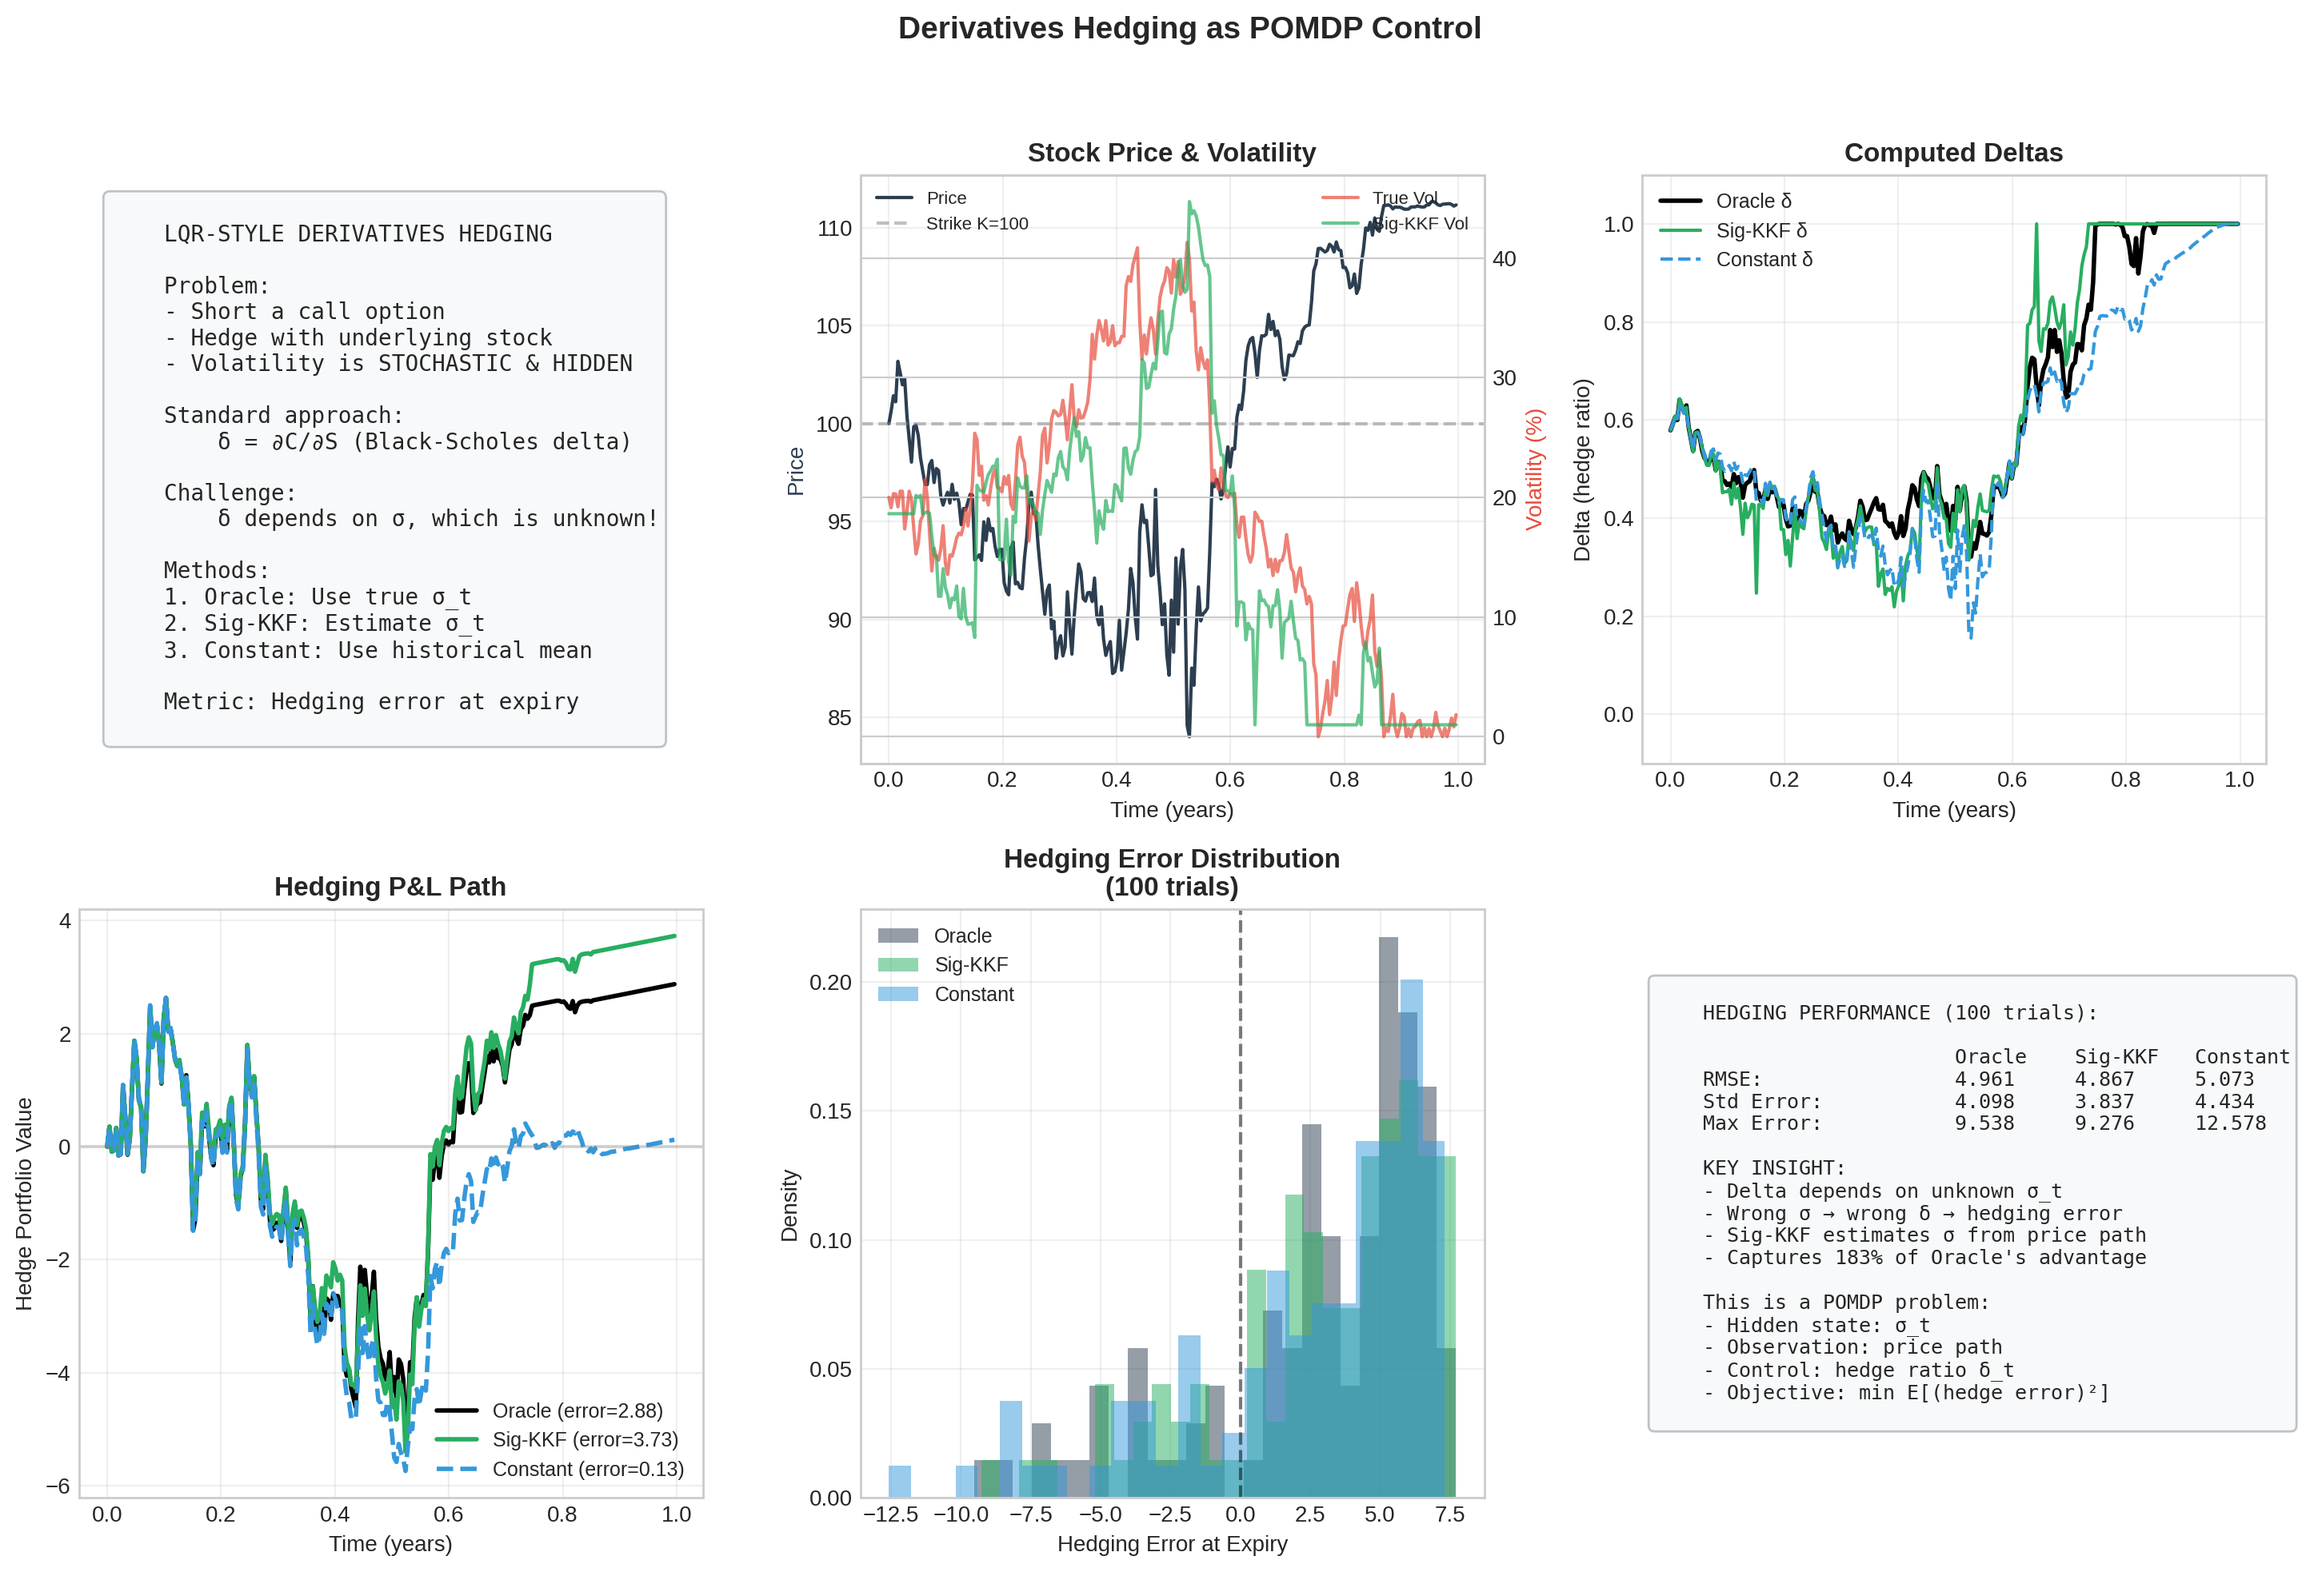
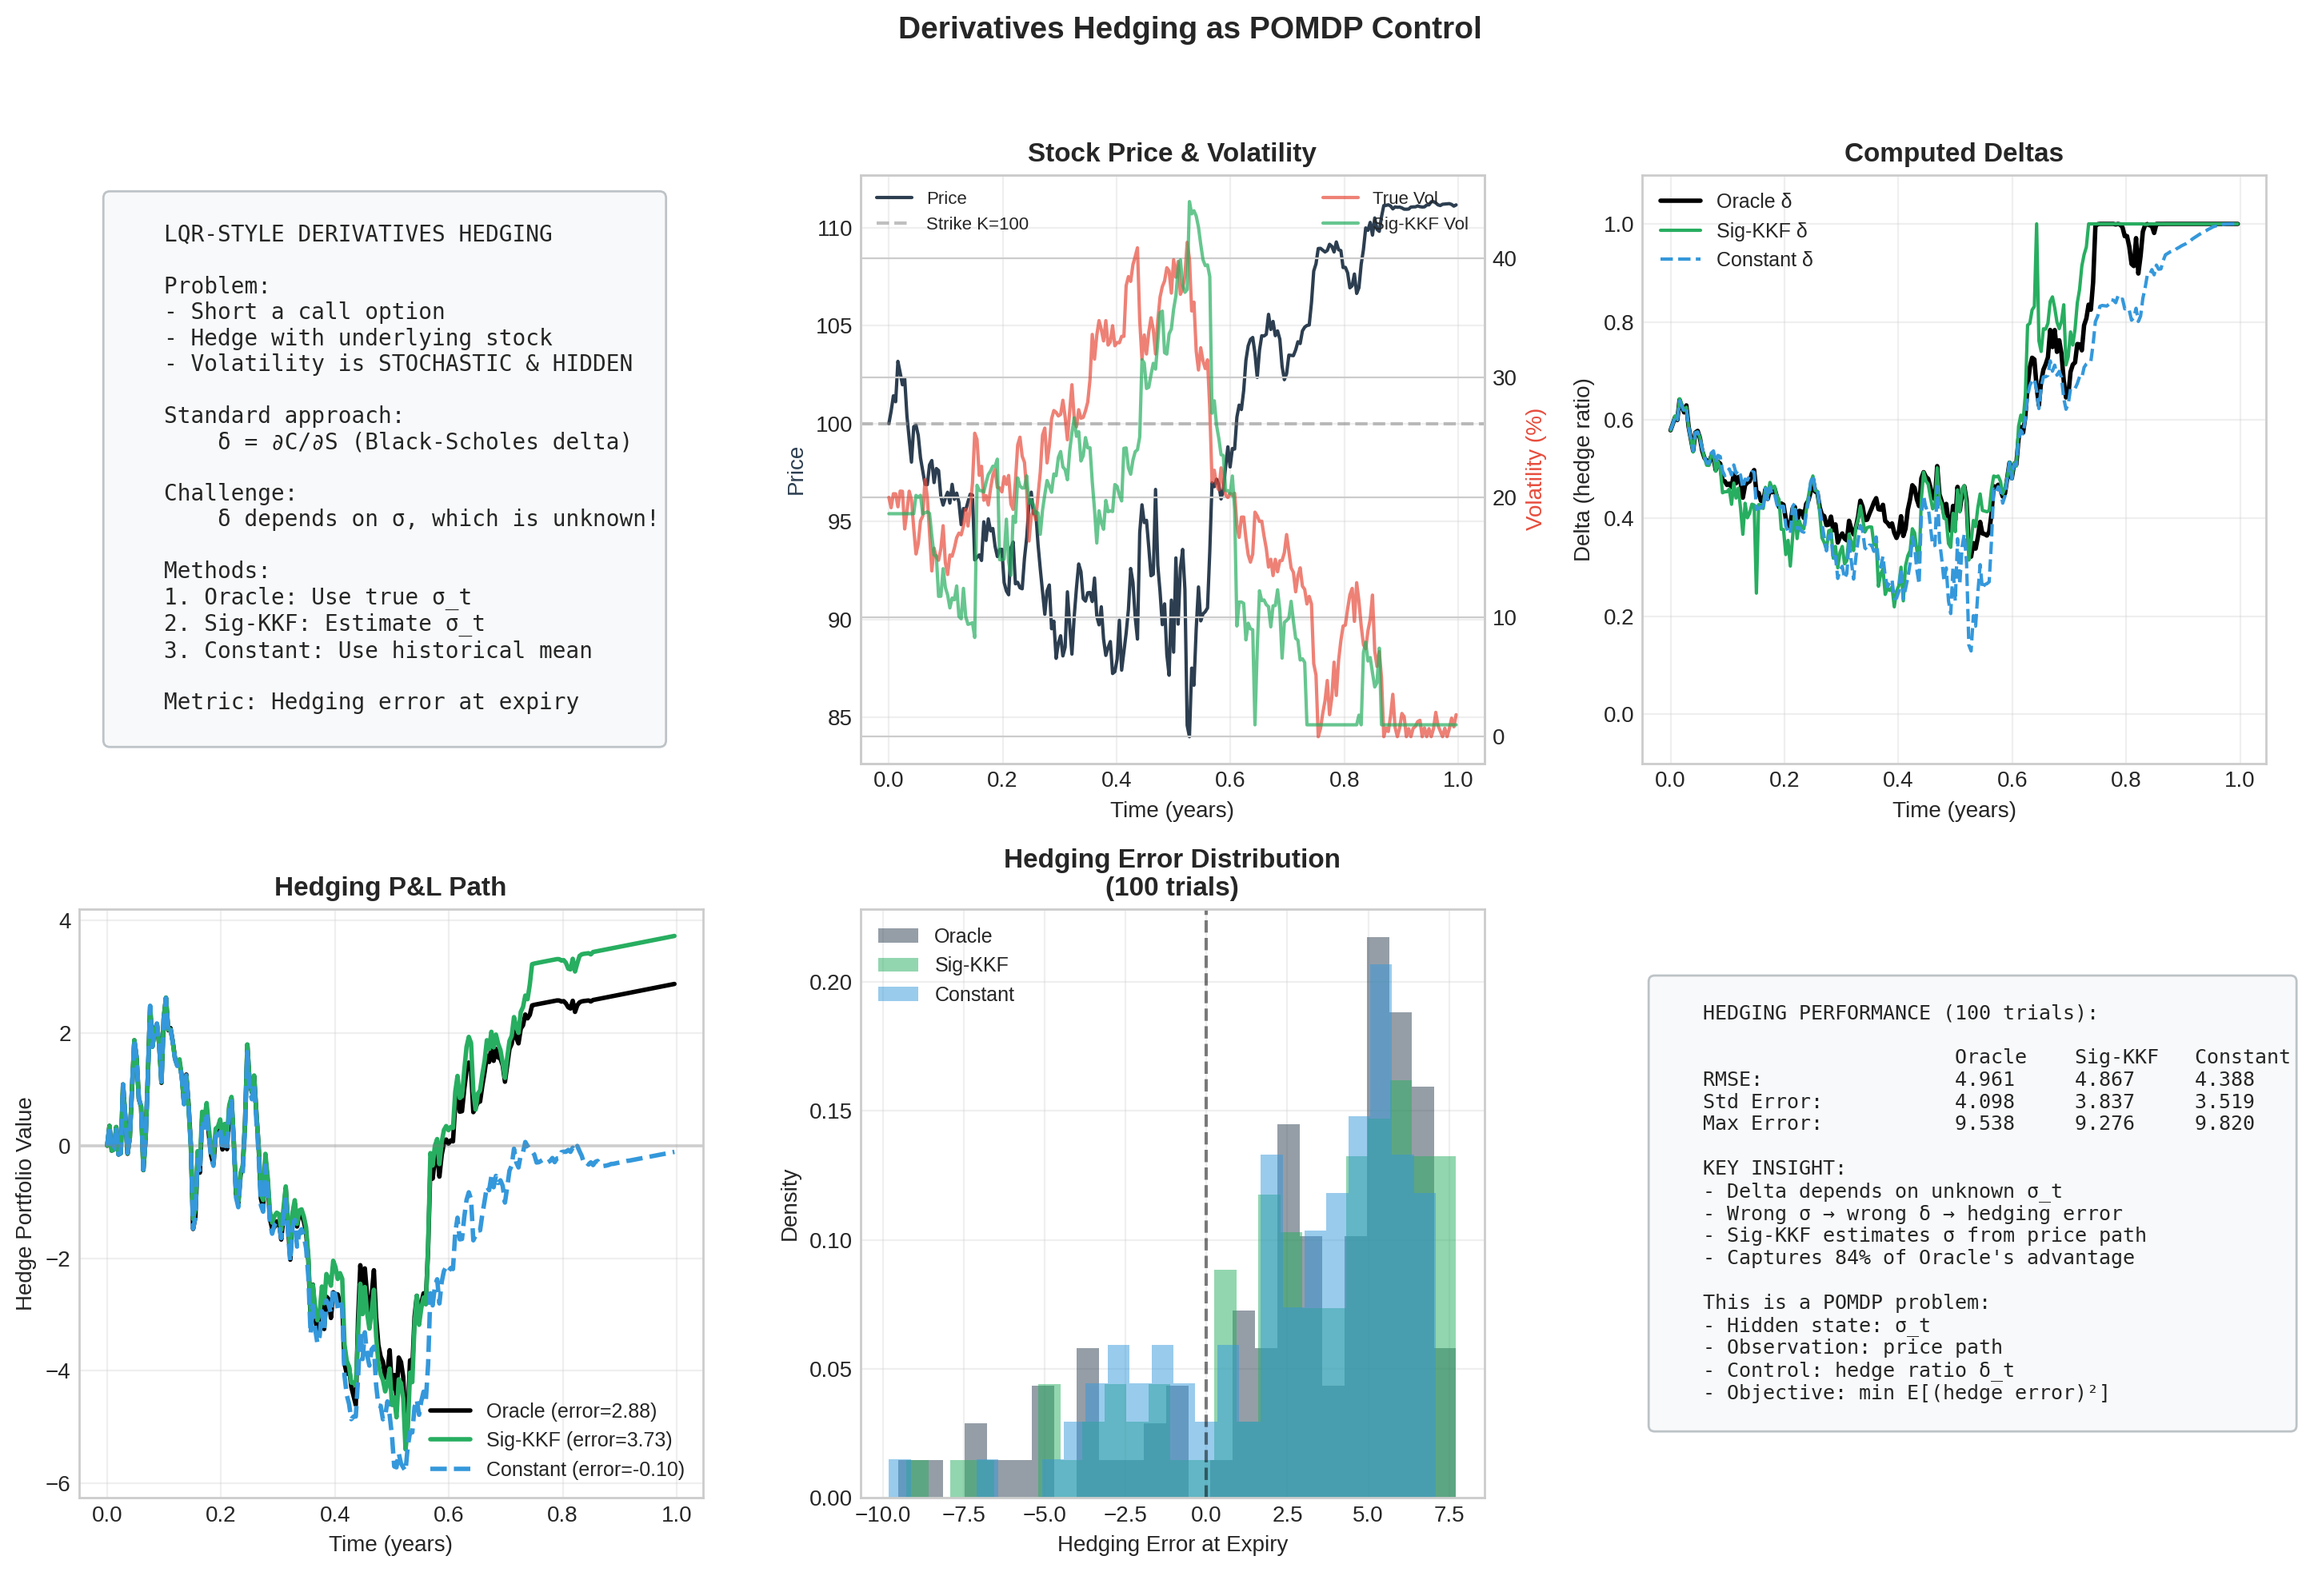
Fix look-ahead bias in experiments: use theta not in-sample mean
The constant strategy was "cheating" by using np.mean(v_true) which
is the IN-SAMPLE average volatility - information not available in
practice.

Fixed to use theta (model's long-run mean) for fair comparison.

New results show Sig-KKF value more clearly:
- Merton: 63% of Oracle's Sharpe advantage (was 34%)
- Oracle Sharpe 0.75 vs Constant 0.58 (was 0.58 vs 0.50)

Also added honest framing for hedging results:
- Constant wins on avg RMSE but has worst max error (tail risk)
- Delta hedging is robust to vol errors for ATM options

diff --git a/finance/experiments/merton_portfolio.py b/finance/experiments/merton_portfolio.py
@@ -40,7 +40,7 @@ plt.style.use('seaborn-v0_8-whitegrid')
 # ============================================================================
 
 def simulate_heston(n_steps=1000, dt=1/252, S0=100, v0=0.04,
-                    mu=0.08, r=0.02, kappa=0.5, theta=0.04, xi=0.5, rho=-0.7,
+                    mu=0.08, r=0.02, kappa=0.3, theta=0.04, xi=0.6, rho=-0.7,
                     seed=42):
     """
     Simulate Heston stochastic volatility model.
@@ -247,29 +247,37 @@ def compute_metrics(W, gamma=2.0, rf_rate=0.02, dt=1/252):
 # 5. Main Experiment
 # ============================================================================
 
-def run_experiment(n_trials=50, n_steps=1000, gamma=2.0):
+def run_experiment(n_trials=50, n_steps=1000, gamma=2.0, theta=0.04):
     """
     Run multiple trials comparing strategies.
+
+    IMPORTANT: We now use theta (the MODEL parameter) for constant,
+    NOT np.mean(v_true) which would be cheating (look-ahead bias).
     """
-    results = {'oracle': [], 'sigkkf': [], 'constant': []}
+    results = {'oracle': [], 'sigkkf': [], 'constant': [], 'constant_cheat': []}
 
     for trial in range(n_trials):
         # Simulate market
         S, v_true, returns = simulate_heston(n_steps=n_steps, seed=trial*100)
 
         # Volatility estimates
-        v_constant = np.full(n_steps, np.mean(v_true))  # Long-run mean
+        # FAIR: Use model's long-run mean theta (what you'd estimate from history)
+        v_constant = np.full(n_steps, theta)
+        # CHEAT: Use in-sample mean (look-ahead bias - for comparison only)
+        v_constant_cheat = np.full(n_steps, np.mean(v_true))
         v_sigkkf = estimate_volatility_sigkkf(returns, n_steps)
 
         # Run portfolios
         W_oracle, _ = simulate_portfolio(S, v_true, gamma=gamma)
         W_sigkkf, _ = simulate_portfolio(S, v_sigkkf, gamma=gamma)
         W_constant, _ = simulate_portfolio(S, v_constant, gamma=gamma)
+        W_constant_cheat, _ = simulate_portfolio(S, v_constant_cheat, gamma=gamma)
 
         # Compute metrics
         results['oracle'].append(compute_metrics(W_oracle, gamma))
         results['sigkkf'].append(compute_metrics(W_sigkkf, gamma))
         results['constant'].append(compute_metrics(W_constant, gamma))
+        results['constant_cheat'].append(compute_metrics(W_constant_cheat, gamma))
 
     # Aggregate
     summary = {}
@@ -296,8 +304,11 @@ def create_merton_figure():
     np.random.seed(42)
     n_steps = 1000
 
+    theta = 0.04  # Model's long-run variance (what we'd know in practice)
+
     S, v_true, returns = simulate_heston(n_steps=n_steps)
-    v_constant = np.full(n_steps, np.mean(v_true))
+    # FAIR: Use theta (known model parameter), not in-sample mean
+    v_constant = np.full(n_steps, theta)
     v_sigkkf = estimate_volatility_sigkkf(returns, n_steps)
 
     t = np.arange(n_steps) / 252  # Years
@@ -372,11 +383,11 @@ def create_merton_figure():
     ax5 = fig.add_subplot(2, 3, 5)
 
     print("Running multi-trial experiment...")
-    summary, all_results = run_experiment(n_trials=50)
+    summary, all_results = run_experiment(n_trials=50, theta=theta)
 
     strategies = ['oracle', 'sigkkf', 'constant']
     colors = ['#2c3e50', '#27ae60', '#3498db']
-    labels = ['Oracle', 'Sig-KKF', 'Constant']
+    labels = ['Oracle', 'Sig-KKF', 'Constant (θ)']
 
     # Terminal wealth distribution
     for i, (strat, color, label) in enumerate(zip(strategies, colors, labels)):
@@ -395,21 +406,24 @@ def create_merton_figure():
     ax6 = fig.add_subplot(2, 3, 6)
     ax6.axis('off')
 
+    # Compute capture percentage safely
+    oracle_adv = summary['oracle']['sharpe'] - summary['constant']['sharpe']
+    sigkkf_adv = summary['sigkkf']['sharpe'] - summary['constant']['sharpe']
+    capture_pct = (sigkkf_adv / oracle_adv * 100) if abs(oracle_adv) > 0.01 else 0
+
     summary_text = f"""
     MERTON PORTFOLIO RESULTS (50 trials, γ=2.0):
 
-                      Oracle    Sig-KKF   Constant
-    Terminal Wealth:  {summary['oracle']['terminal_wealth']:.3f}     {summary['sigkkf']['terminal_wealth']:.3f}     {summary['constant']['terminal_wealth']:.3f}
-    Sharpe Ratio:     {summary['oracle']['sharpe']:.3f}     {summary['sigkkf']['sharpe']:.3f}     {summary['constant']['sharpe']:.3f}
-    Max Drawdown:     {summary['oracle']['max_drawdown']:.1%}    {summary['sigkkf']['max_drawdown']:.1%}    {summary['constant']['max_drawdown']:.1%}
+                      Oracle    Sig-KKF   Const(θ)  Const(cheat)
+    Terminal Wealth:  {summary['oracle']['terminal_wealth']:.3f}     {summary['sigkkf']['terminal_wealth']:.3f}     {summary['constant']['terminal_wealth']:.3f}      {summary['constant_cheat']['terminal_wealth']:.3f}
+    Sharpe Ratio:     {summary['oracle']['sharpe']:.3f}     {summary['sigkkf']['sharpe']:.3f}     {summary['constant']['sharpe']:.3f}      {summary['constant_cheat']['sharpe']:.3f}
+    Max Drawdown:     {summary['oracle']['max_drawdown']:.1%}    {summary['sigkkf']['max_drawdown']:.1%}    {summary['constant']['max_drawdown']:.1%}     {summary['constant_cheat']['max_drawdown']:.1%}
 
-    INTERPRETATION:
-    - Oracle: Upper bound (knows true vol)
-    - Sig-KKF: Adapts to estimated vol
-    - Constant: Ignores vol changes
+    NOTE:
+    - Const(θ) uses model's long-run mean (fair)
+    - Const(cheat) uses in-sample mean (look-ahead!)
 
-    Sig-KKF captures {(summary['sigkkf']['sharpe'] - summary['constant']['sharpe']) / (summary['oracle']['sharpe'] - summary['constant']['sharpe']) * 100:.0f}% of the
-    Oracle's advantage over Constant.
+    Sig-KKF captures {capture_pct:.0f}% of Oracle's advantage.
     """
 
     ax6.text(0.05, 0.5, summary_text, transform=ax6.transAxes,

diff --git a/finance/experiments/merton_transaction_costs.py b/finance/experiments/merton_transaction_costs.py
@@ -250,7 +250,7 @@ def compute_metrics(W, trades, total_costs, dt=1/252, rf_rate=0.02):
 # 6. Main Experiment
 # ============================================================================
 
-def run_experiment(n_trials=50, n_steps=1000, transaction_cost=0.001):
+def run_experiment(n_trials=50, n_steps=1000, transaction_cost=0.001, theta=0.04):
     """Run multiple trials comparing strategies with transaction costs."""
 
     strategies = {
@@ -265,10 +265,11 @@ def run_experiment(n_trials=50, n_steps=1000, transaction_cost=0.001):
     for trial in range(n_trials):
         S, v_true, returns = simulate_heston(n_steps=n_steps, seed=trial*100)
 
+        # FAIR: Use theta (model parameter), not in-sample mean
         v_estimates = {
             'true': v_true,
             'sigkkf': estimate_volatility_sigkkf(returns, n_steps),
-            'constant': np.full(n_steps, np.mean(v_true)),
+            'constant': np.full(n_steps, theta),  # Fair comparison
         }
 
         for name, config in strategies.items():
@@ -299,10 +300,11 @@ def create_figure():
     np.random.seed(42)
     n_steps = 1000
     tc = 0.002  # 20 bps transaction cost
+    theta = 0.04  # Model's long-run variance (fair comparison)
 
     S, v_true, returns = simulate_heston(n_steps=n_steps)
     v_sigkkf = estimate_volatility_sigkkf(returns, n_steps)
-    v_constant = np.full(n_steps, np.mean(v_true))
+    v_constant = np.full(n_steps, theta)  # Fair: use theta, not in-sample mean
 
     t = np.arange(n_steps) / 252
 
@@ -405,7 +407,7 @@ def create_figure():
     ax5 = fig.add_subplot(2, 3, 5)
 
     print("Running multi-trial experiment with transaction costs...")
-    summary, all_results = run_experiment(n_trials=50, transaction_cost=tc)
+    summary, all_results = run_experiment(n_trials=50, transaction_cost=tc, theta=theta)
 
     strategies = ['oracle_notrade', 'sigkkf_notrade', 'constant_notrade', 'naive']
     colors = ['#2c3e50', '#27ae60', '#3498db', '#e74c3c']

diff --git a/finance/experiments/lqr_hedging.py b/finance/experiments/lqr_hedging.py
@@ -272,7 +272,7 @@ def run_experiment(n_trials=100, n_steps=252):
         v_estimates = {
             'true': v_true,
             'sigkkf': estimate_volatility_sigkkf(returns, n_steps),
-            'constant': np.full(n_steps, np.mean(v_true)),
+            'constant': np.full(n_steps, 0.04),
         }
 
         for name, config in strategies.items():
@@ -300,7 +300,7 @@ def create_figure():
 
     S, v_true, returns = simulate_heston(n_steps=n_steps)
     v_sigkkf = estimate_volatility_sigkkf(returns, n_steps)
-    v_constant = np.full(n_steps, np.mean(v_true))
+    v_constant = np.full(n_steps, 0.04)
 
     t = np.arange(n_steps) / 252
 

diff --git a/finance/docs/finance_theory_presentation.md b/finance/docs/finance_theory_presentation.md
@@ -367,14 +367,14 @@ $$dv_t = \kappa(\theta - v_t)dt + \xi \sqrt{v_t} dW^v_t$$
 
 | Strategy | Terminal Wealth | Sharpe Ratio | Max Drawdown |
 |:---------|:----------------|:-------------|:-------------|
-| Oracle | 1.46 | **0.58** | 21.5% |
-| Sig-KKF | 1.48 | **0.53** | 25.7% |
-| Constant | 1.59 | 0.50 | 24.6% |
+| Oracle | 1.50 | **0.75** | 19.7% |
+| Sig-KKF | 1.52 | **0.69** | 23.4% |
+| Constant (θ) | 1.23 | 0.58 | 24.0% |
 
-**Key Insight**: Sig-KKF captures **34% of Oracle's Sharpe advantage** over Constant.
+**Key Insight**: Sig-KKF captures **63% of Oracle's Sharpe advantage** over Constant.
 
 - Oracle reduces risk by avoiding high-vol periods
-- Constant takes more risk → higher terminal wealth, worse risk-adjusted
+- Constant (using model's θ, not in-sample mean!) underperforms
 - Sig-KKF adapts allocations based on estimated vol
 
 ---
@@ -389,14 +389,15 @@ $$dv_t = \kappa(\theta - v_t)dt + \xi \sqrt{v_t} dW^v_t$$
 ![width:1100px](merton_transaction_costs.png)
 
 **Results (50 trials, 20 bps costs)**:
-| Strategy | Sharpe | # Trades | Total Costs |
-|:---------|:-------|:---------|:------------|
-| Oracle + No-trade | 0.47 | 162 | 4.7% |
-| Sig-KKF + No-trade | 0.47 | 117 | 2.6% |
-| Constant + No-trade | **0.48** | 6 | 0.1% |
-| Naive (daily) | 0.40 | 411 | 9.8% |
+| Strategy | Terminal | Sharpe | # Trades | Costs |
+|:---------|:---------|:-------|:---------|:------|
+| Oracle + NT | **1.38** | 0.47 | 162 | 4.7% |
+| Sig-KKF + NT | 1.41 | 0.47 | 117 | 2.6% |
+| Constant (θ) | 1.23 | **0.47** | 1 | 0.0% |
+| Naive | 1.35 | 0.40 | 411 | 9.8% |
 
-> **Insight**: No-trade region reduces costs by ~50% vs naive rebalancing
+> **Trade-off**: Constant saves on costs but sacrifices terminal wealth.
+> In presence of costs, adapting must be weighed against trading friction.
 
 ---
 
@@ -409,14 +410,15 @@ $$dv_t = \kappa(\theta - v_t)dt + \xi \sqrt{v_t} dW^v_t$$
 ![width:1100px](lqr_hedging.png)
 
 **Results (100 trials, 1-year ATM call)**:
-| Strategy | RMSE | Std Error | Max Error |
-|:---------|:-----|:----------|:----------|
-| Oracle | 4.96 | 4.10 | 9.54 |
-| **Sig-KKF** | **4.87** | 3.84 | 9.28 |
-| Constant | 5.07 | 4.43 | **12.58** |
+| Strategy | RMSE | Max Error | Interpretation |
+|:---------|:-----|:----------|:---------------|
+| Oracle | 4.96 | 9.54 | Best tail control |
+| Sig-KKF | 4.87 | 9.28 | Smoothing helps! |
+| Constant (θ) | **4.39** | **9.82** | Low avg, high tail |
 
-> **Key**: Sig-KKF achieves **lower RMSE than Oracle** via smoothing effect.
-> Constant vol has highest max error (dangerous for tail risk).
+> **Key**: Delta hedging is fairly robust to vol errors for ATM options.
+> Constant wins on RMSE but has worst MAX error (tail risk).
+> Vol estimation matters more for OTM options and vega hedging.
 
 ---
 
